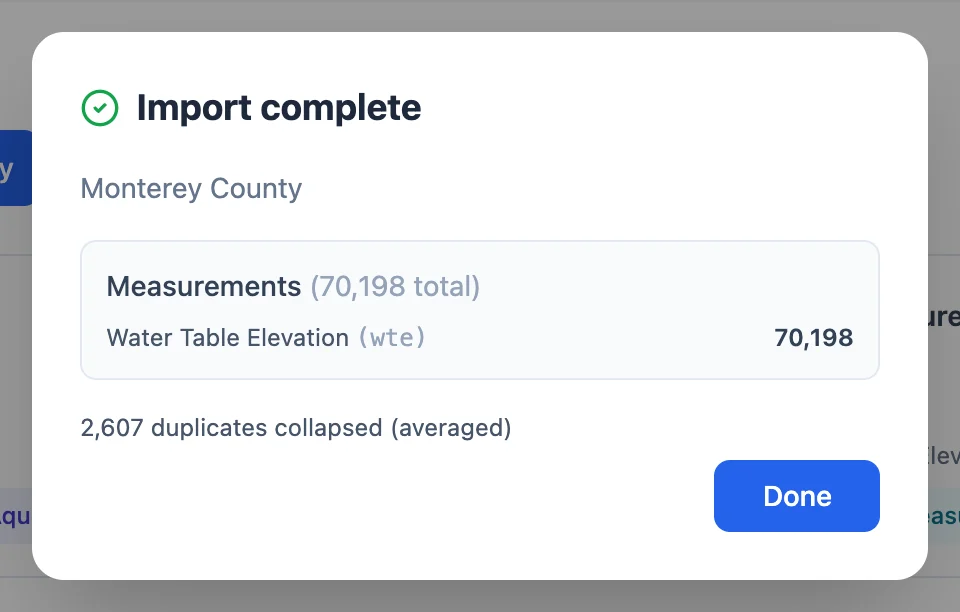
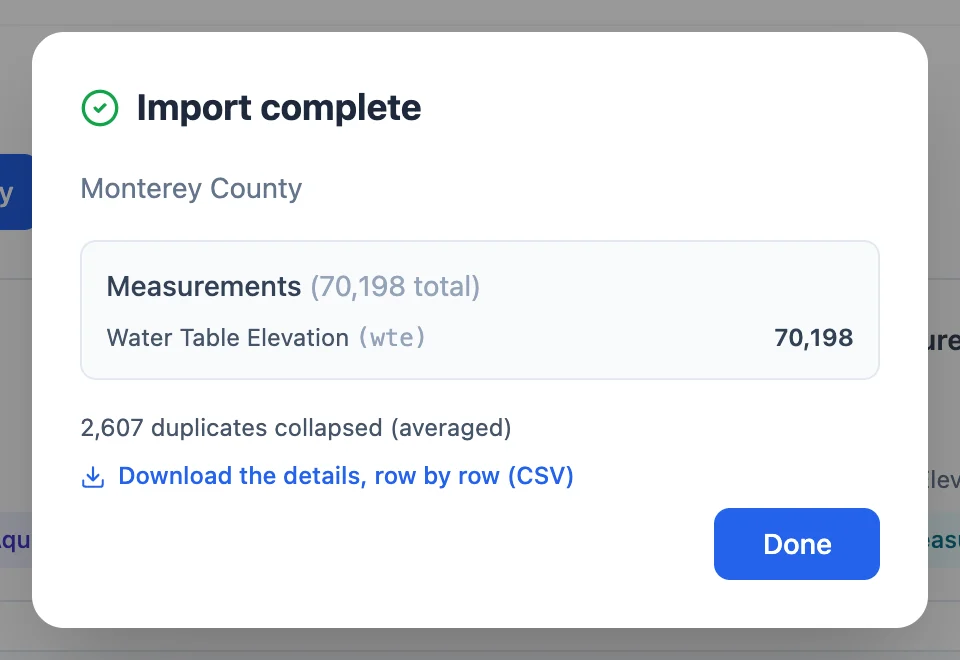
Aquifer Analyst Measurements: the import report, and the Monterey duplicates
The import summary gained a CSV report of every row left out or
changed. The Saving section describes it and the new count of
measurements the region already had; the Duplicates section says what
the Monterey water levels' 2,564 duplicate well-dates are and points to
the report. The summary screenshot shows the report link.

Claude-Session: https://claude.ai/code/session_01Vb5FMgUjLz9pmhJvE6MAsm

diff --git a/docs/aquiferx/data/measurements.en.md b/docs/aquiferx/data/measurements.en.md
@@ -102,10 +102,14 @@ counted in the summary.
 
 ### Duplicates
 
-![Two samples on the same date at some wells](../../static/images/aquiferx/meas-duplicates.webp){ align=right width="420" }
+![More than one water level on the same date at some wells](../../static/images/aquiferx/meas-duplicates.webp){ align=right width="420" }
 
 When the file has more than one row for a well on the same date, a notice says how many, with a choice of what to keep: **Average
-duplicates**, the default, **Keep maximum**, or **Keep all**.
+duplicates**, the default, **Keep maximum**, or **Keep all**. The report after saving lists each of them with the value it became (see
+[Saving](#saving)).
+
+In the Monterey County water levels, 2,564 well-dates have two to four readings. At 2,549 of them the readings are equal, and at 14 of
+the other 15 they differ by 0.05 ft or less. The last pair, 2.29 ft apart, is worth a look, and the report gives its row in the file.
 
 <div style="clear: both"></div>
 
@@ -124,7 +128,12 @@ it is for the same well on the same date.
 
 **Save Measurements** writes the measurements, any new wells and any new custom types, then shows a summary: wells created and matched,
 measurements saved for each type, and duplicates collapsed. Below that it counts what was left out, with the reason: new wells outside
-every aquifer, rows whose well could not be found, values that are not numbers, and depths at wells without an elevation.
+every aquifer, rows whose well could not be found, values that are not numbers, depths at wells without an elevation, and measurements
+the region already had, which **Add new only** skips and **Add and update** overwrites.
+
+**Download the details** saves those rows as a CSV file, one line each, with the row's number as a spreadsheet shows it, the well, date,
+data type and value, and what happened to it: `averaged to 24.5`, `skipped`, `replaced 23.9`. In a file with blank lines, the numbers
+fall behind the spreadsheet's by one for each blank line above the row, since the importer skips blank lines.
 
 <div style="clear: both"></div>
 
